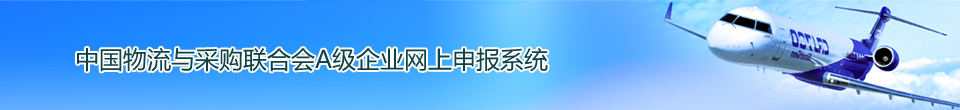
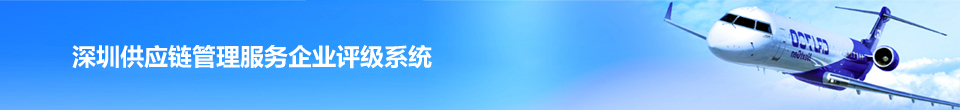
fdsfsdfd

Changed region(s): [[0.0625, 0.4091, 0.5938, 0.6818]]

diff --git a/index.html b/index.html
@@ -24,7 +24,7 @@
                         <svg class="icon" aria-hidden="true" style="margin-right:5px;font-size:17px">
                             <use xlink:href="#icon-renshishenqing"></use>
                         </svg>
-                        <a href="#"  style="display:inline-block;width:133px;">我的申请</a>
+                        <a href="#" id="list1" style="display:inline-block;width:133px;">我的申请</a>
                         <svg class="jian_color icon" aria-hidden="true"style="font-size:20px;color:#d0cfcf">
                             <use xlink:href="#icon-jiantou"></use>
                         </svg>
@@ -36,7 +36,7 @@
                         <svg class="icon" aria-hidden="true" style="margin-right:5px;font-size:17px">
                             <use xlink:href="#icon-ziliao"></use>
                         </svg>
-                        <a href="#" style="display:inline-block;width:133px;">我的资料</a>
+                        <a href="#" id="list2" style="display:inline-block;width:133px;">我的资料</a>
                         <svg class="icon jiantou" aria-hidden="true" style="font-size:20px;color:#d0cfcf">
                             <use xlink:href="#icon-jiantou"></use>
                         </svg>
@@ -48,7 +48,7 @@
                         <svg class="icon" aria-hidden="true" style="margin-right:5px;font-size:17px">
                             <use xlink:href="#icon--"></use>
                         </svg>
-                        <a href="#" style="display:inline-block;width:133px;">年度财务报表</a>
+                        <a href="#" id="list3" style="display:inline-block;width:133px;">年度财务报表</a>
                         <svg class="icon jiantou" aria-hidden="true" style="font-size:20px;color:#d0cfcf">
                             <use xlink:href="#icon-jiantou"></use>
                         </svg>
@@ -61,7 +61,7 @@
                         <svg class="icon" aria-hidden="true" style="margin-right:5px;font-size:17px">
                             <use xlink:href="#icon-mima"></use>
                         </svg>
-                        <a href="#" style="display:inline-block;width:133px;">修改密码</a>
+                        <a href="#" id="list4" style="display:inline-block;width:133px;">修改密码</a>
                         <svg class="icon jiantou" aria-hidden="true" style="font-size:20px;color:#d0cfcf">
                             <use xlink:href="#icon-jiantou"></use>
                         </svg>
@@ -74,7 +74,7 @@
                         <svg class="icon" aria-hidden="true" style="margin-right:5px;font-size:17px">
                             <use xlink:href="#icon-ft-power"></use>
                         </svg>
-                        <a href="#" style="display:inline-block;width:133px;">注销</a>
+                        <a href="#" id="list5" style="display:inline-block;width:133px;">注销</a>
                         <svg class="icon jiantou" aria-hidden="true" style="font-size:20px;color:#d0cfcf">
                             <use xlink:href="#icon-jiantou"></use>
                         </svg>

diff --git a/src/script/login.js b/src/script/login.js
@@ -6,13 +6,17 @@ $(function(){
         var pass = $("#Password").val();
         if(user == ""){
             $("#ValidationSummary1 li").eq(0).show();
+            $("#ValidationSummary1 li").eq(2).hide();
         }else{
             $("#ValidationSummary1 li").eq(0).hide();
+            $("#ValidationSummary1 li").eq(2).hide();
         }
         if(pass == ""){
             $("#ValidationSummary1 li").eq(1).show();
+            $("#ValidationSummary1 li").eq(2).hide();
         }else {
             $("#ValidationSummary1 li").eq(1).hide();
+            $("#ValidationSummary1 li").eq(2).hide();
         }
         if(user !="" && pass !=""){
             var data = {
@@ -20,29 +24,30 @@ $(function(){
                 "Password": "12"
             }
             $.ajax({
-                url: "http://declare.dagaimao.cn/web/index.php?r=users/login-check-port",
-                type:"post",
-                data:JSON.stringify(data),
-                headers:{
-                    "content-Type":"application/x-www-form-urlencoded;charset=utf8"
-                },
+                url: "http://declare.dagaimao.cn/web/index.php?r=users/login-check-port&UserName=" + user +"&Password="+pass,
+                type:"get",
+                // data:data,
+                // headers:{
+                //     "content-Type":"application/x-www-form-urlencoded;charset=utf8"
+                // },
                 // dataType: "json",
                 // contentType: "application/x-www-form-urlencoded;charset=utf8",
                 // dataType:"jsonp",
                 // jsonpCallback: "onBack",
                 // jsonp:"onBack",
-                dataType:"application/json",
-                dataType:"json",
                 success: function (res) {
-                    console.log(res)
                     setCookie("admin", res, "d30")
-                        console.log(getCookie('admin'))
-                   
-                    // if(res){
-                    //     setTimeout(function(){
-                    //         window.location.href = "../../index.html";
-                    //     },1000)
-                    // }
+                    var data = JSON.parse(res);
+                    if (data.status == 0){
+                        $("#ValidationSummary1 li").eq(0).hide();
+                        $("#ValidationSummary1 li").eq(1).hide();
+                        $("#ValidationSummary1 li").eq(2).show();
+                        console.log(data.status)
+                    } else if (data.status == 1){
+                        setTimeout(function () {
+                            window.location.href = "../../index.html";
+                        }, 1000)
+                    }
                 },
                 error: function () {
                     console.log("error!!!!");

diff --git a/dest/script/index.js b/dest/script/index.js
@@ -1,1 +1,1 @@
-null==getCookie("admin")&&(window.location.href="../../login.html");var data=JSON.parse(getCookie("admin"));function time(){var t=new Date;return t.getFullYear()+"-"+(t.getMonth()<9?"0"+t.getMonth():t.getMonth())+"-"+t.getDate()}console.log(data),0==data.auth&&$("#right iframe").attr("src","../../pages/iframe/myApply.html"),$("#LabelDisplayName").html(data.name),$("#time").html(time),$("#MenuAll li").on("click",function(){var t=$(this).index();$("#MenuAll li").removeClass("li_back"),$(this).addClass("li_back"),0==data.auth?1==t?$("#right iframe").attr("src","../../pages/iframe/myProfile.html"):0==t?$("#right iframe").attr("src","../../pages/iframe/myApply.html"):2==t?$("#right iframe").attr("src","../../pages/iframe/thereport.html"):3==t?$("#right iframe").attr("src","../../pages/iframe/resetpass.html"):4==t&&setTimeout(function(){window.location.href="../../login.html"},1500):1==data.auth&&(1==t?$("#right iframe").attr("src","../../pages/iframe/myHave.html"):0==t?$("#right iframe").attr("src","../../pages/iframe/myTodo.html"):2==t?$("#right iframe").attr("src","../../pages/iframe/enterpriseInfo.html"):3==t?$("#right iframe").attr("src","../../pages/iframe/resetpass.html"):4==t&&setTimeout(function(){window.location.href="../../login.html"},1500))});
+null==getCookie("admin")&&(window.location.href="../../login.html");var data=JSON.parse(getCookie("admin"));function time(){var t=new Date;return t.getFullYear()+"-"+(t.getMonth()<9?"0"+t.getMonth():t.getMonth())+"-"+t.getDate()}console.log(data),0==data.auth?$("#right iframe").attr("src","../../pages/iframe/myApply.html"):1==data.auth&&($("#list1").html("我的待办"),$("#list2").html("我的已办"),$("#list3").html("企业信息查询")),$("#LabelDisplayName").html(data.name),$("#time").html(time),$("#MenuAll li").on("click",function(){var t=$(this).index();$("#MenuAll li").removeClass("li_back"),$(this).addClass("li_back"),console.log(t),0==data.auth?1==t?$("#right iframe").attr("src","../../pages/iframe/myProfile.html"):0==t?$("#right iframe").attr("src","../../pages/iframe/myApply.html"):2==t?$("#right iframe").attr("src","../../pages/iframe/thereport.html"):3==t?$("#right iframe").attr("src","../../pages/iframe/resetpass.html"):4==t&&setTimeout(function(){window.location.href="../../login.html"},1500):1==data.auth&&(1==t?$("#right iframe").attr("src","../../pages/iframe/myHave.html"):0==t?$("#right iframe").attr("src","../../pages/iframe/myTodo.html"):2==t?$("#right iframe").attr("src","../../pages/iframe/enterpriseInfo.html"):3==t?$("#right iframe").attr("src","../../pages/iframe/resetpass.html"):4==t&&setTimeout(function(){window.location.href="../../login.html"},1500))});

diff --git a/dest/css/index.css b/dest/css/index.css
@@ -1,1 +1,1 @@
-#header,#left{position:relative}#left,.icon{overflow:hidden}#footer div,body{text-align:center}body{font-family:Verdana;margin:0;padding:0;background:#FFF;font-size:12px;color:#333;line-height:18px}#username,.jian_color{color:#fff}.fl{float:left}#right,.fr{float:right}dd,div,dl,dt,form,img,li,ol,p,ul{margin:0;padding:0;border:0;list-style:none}#header{height:115px;background:#00f}#footer,#header,#infoMain,#main{width:960px;margin:0 auto;text-align:left;overflow:hidden}#username{position:absolute;top:91px;left:20px;font-weight:700}#right{width:720px}#left{float:left;width:225px}.icon{width:1em;height:1em;vertical-align:-.15em;fill:currentColor}#MenuAll{border:1px solid #e6e6e6}#MenuAll li{height:35px;line-height:35px;border-bottom:1px solid #e6e6e6}.li_back{background:#51a2d1}#newsXianli p{text-indent:28px}#newsXianli span{display:inline-block;margin-left:130px;margin-top:25px}a{text-decoration:none}#newsXianli{background:url(../img/newsbg.jpg) 0 -120px no-repeat;height:120px;padding:58px 0 0 18px;margin-top:20px;line-height:20px}#footer div{height:30px;padding-top:5px;color:#999}
+#header,#left{position:relative}#left,.icon{overflow:hidden}#footer div,body{text-align:center}body{font-family:Verdana;margin:0;padding:0;background:#FFF;font-size:12px;color:#333;line-height:18px}#username,.jian_color{color:#fff}.fl{float:left}#right,.fr{float:right}dd,div,dl,dt,form,img,li,ol,p,ul{margin:0;padding:0;border:0;list-style:none}#header{height:115px;background:url(../img/index_header.jpg) no-repeat}#footer,#header,#infoMain,#main{width:960px;margin:0 auto;text-align:left;overflow:hidden}#username{position:absolute;top:91px;left:20px;font-weight:700}#right{width:720px}#left{float:left;width:225px}.icon{width:1em;height:1em;vertical-align:-.15em;fill:currentColor}#MenuAll{border:1px solid #e6e6e6}#MenuAll li{height:35px;line-height:35px;border-bottom:1px solid #e6e6e6}.li_back{background:#51a2d1}#newsXianli p{text-indent:28px}#newsXianli span{display:inline-block;margin-left:130px;margin-top:25px}a{text-decoration:none}#newsXianli{background:url(../img/newsbg.jpg) 0 -120px no-repeat;height:120px;padding:58px 0 0 18px;margin-top:20px;line-height:20px}#footer div{height:30px;padding-top:5px;color:#999}

diff --git a/dest/script/login.js b/dest/script/login.js
@@ -1,1 +1,1 @@
-$(function(){$("form").submit(function(){var a=$("#UserName").val(),o=$("#Password").val();if(""==a?$("#ValidationSummary1 li").eq(0).show():$("#ValidationSummary1 li").eq(0).hide(),""==o?$("#ValidationSummary1 li").eq(1).show():$("#ValidationSummary1 li").eq(1).hide(),""!=a&&""!=o){$.ajax({url:"http://declare.dagaimao.cn/web/index.php?r=users/login-check-port",type:"post",data:JSON.stringify({UserName:"1",Password:"12"}),headers:{"content-Type":"application/x-www-form-urlencoded;charset=utf8"},dataType:"application/json",dataType:"json",success:function(a){console.log(a),setCookie("admin",a,"d30"),console.log(getCookie("admin"))},error:function(){console.log("error!!!!")}})}return!1})});
+$(function(){$("form").submit(function(){var i=$("#UserName").val(),a=$("#Password").val();if(""==i?$("#ValidationSummary1 li").eq(0).show():$("#ValidationSummary1 li").eq(0).hide(),$("#ValidationSummary1 li").eq(2).hide(),""==a?$("#ValidationSummary1 li").eq(1).show():$("#ValidationSummary1 li").eq(1).hide(),$("#ValidationSummary1 li").eq(2).hide(),""!=i&&""!=a){$.ajax({url:"http://declare.dagaimao.cn/web/index.php?r=users/login-check-port&UserName="+i+"&Password="+a,type:"get",success:function(i){setCookie("admin",i,"d30");var a=JSON.parse(i);0==a.status?($("#ValidationSummary1 li").eq(0).hide(),$("#ValidationSummary1 li").eq(1).hide(),$("#ValidationSummary1 li").eq(2).show(),console.log(a.status)):1==a.status&&setTimeout(function(){window.location.href="../../index.html"},1e3)},error:function(){console.log("error!!!!")}})}return!1})});

diff --git a/login.html b/login.html
@@ -4,7 +4,7 @@
     <meta charset="UTF-8">
     <meta name="viewport" content="width=device-width, initial-scale=1.0">
     <meta http-equiv="X-UA-Compatible" content="ie=edge">
-    <title>A级物流企业网上申报系统————登录</title>
+    <title>深圳供应链管理服务企业评级系统————登录</title>
     <link rel="stylesheet" href="dest/css/login.css">
 </head>
 <body>
@@ -22,7 +22,7 @@
                         <div id="ValidationSummary1" style="color:Red;">
                             <li>请输入用户名</li>
                             <li>请输入密码</li>
-                            <li>用户名或密码错误，还可以尝试4次</li>
+                            <li>用户名或密码错误</li>
                         </div>
                         <span id="CustomValidator1" style="color:Red;display:none;"></span>
                     </dt>
@@ -31,7 +31,7 @@
                         <a href="pages/register.html" target="_self">注册</a>
                     </dd>
                 </dl>
-                <h2> 技术支持：深圳市物流与供应链管理协会&nbsp;&nbsp;&nbsp;&nbsp;联系电话：83775701</h2>
+                <h2> 技术支持：深圳市物流与供应链管理协会&nbsp;&nbsp;&nbsp;&nbsp;联系电话：0755-83581255</h2>
             </div>
         </form>
     </div>

diff --git a/pages/register.html b/pages/register.html
@@ -4,14 +4,13 @@
     <meta charset="UTF-8">
     <meta name="viewport" content="width=device-width, initial-scale=1.0">
     <meta http-equiv="X-UA-Compatible" content="ie=edge">
-    <title>A级物流企业网上申报系统————注册</title>
+    <title>深圳市物流与供应链管理协会</title>
     <link rel="stylesheet" href="../dest/css/register.css">
 </head>
 <body>
     <div id="back">
         <div id="box2">
-            <h1>
-                <img src="../dest/img/logo.jpg" width="284" height="28" alt="A级物流企业网上申报系统——注册"></h1>
+            <h1> 深圳市物流与供应链管理协会</h1>
             <div class="clear">
             </div>
             <div id="DivRegister" class="register">

diff --git a/src/script/index.js b/src/script/index.js
@@ -7,6 +7,10 @@
     console.log(data)
     if (data.auth == 0){
         $("#right iframe").attr("src", "../../pages/iframe/myApply.html")
+    } else if (data.auth == 1){
+        $("#list1").html("我的待办")
+        $("#list2").html("我的已办")
+        $("#list3").html("企业信息查询")
     }
     
     $("#LabelDisplayName").html(data.name)
@@ -23,6 +27,7 @@
         var index = $(this).index();
         $("#MenuAll li").removeClass("li_back")
         $(this).addClass("li_back")
+        console.log(index)
         if (data.auth == 0){
             if (index == 1) {
                 $("#right iframe").attr("src", "../../pages/iframe/myProfile.html")

diff --git a/src/css/index.css b/src/css/index.css
@@ -22,7 +22,7 @@ div, form, img, ul, ol, li, dl, dt, dd, p {
 }
 #header {
     height: 115px;
-    background:blue;
+    background: url(../img/index_header.jpg) no-repeat;
     position: relative;
 }
 #header, #main, #footer, #infoMain {
